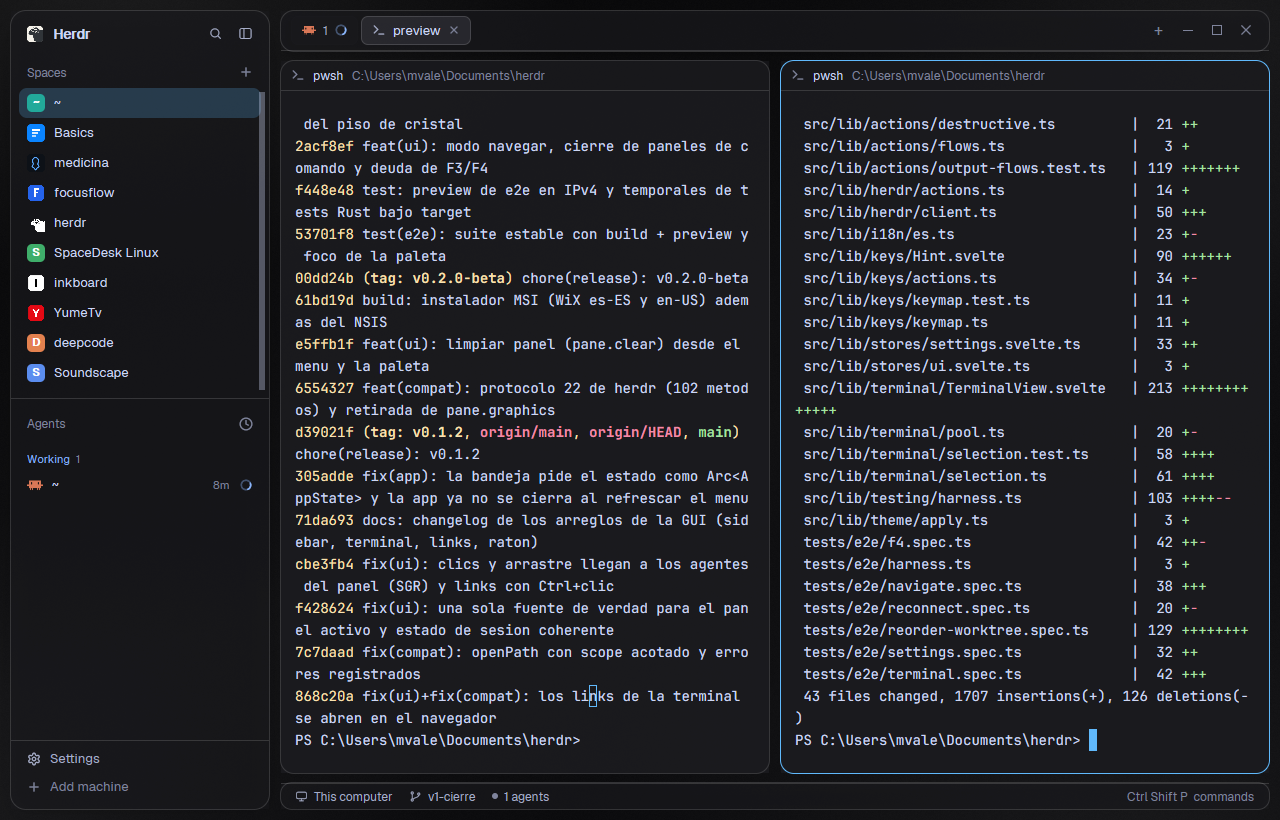
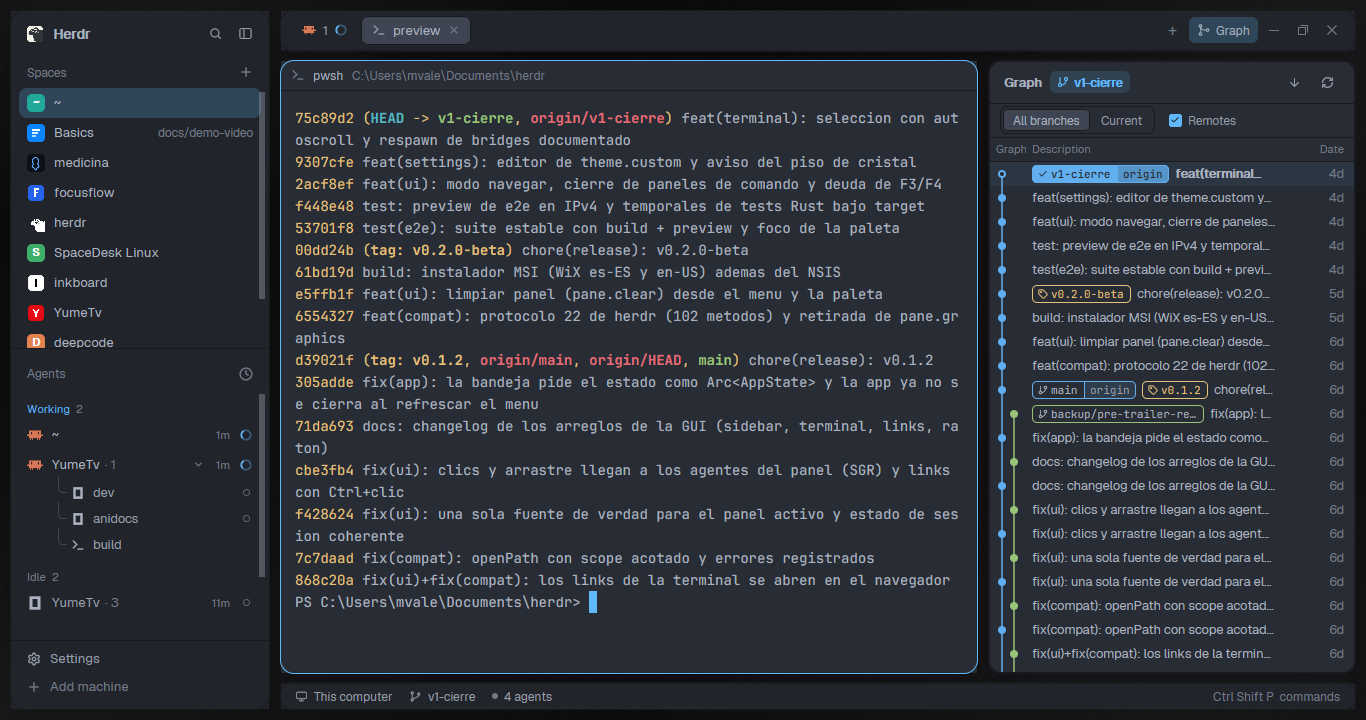
feat: Graph button in the tab bar for the git-graph mod
Adds mods/tabs-graph, a clone of Herdr's tabs mod with a Graph button that
opens rabeeh-ta/herdr-git-graph in the side panel. The button shows only
when git-graph is installed. Layout, recipe, README and preview updated.

diff --git a/mods/tabs-graph/main.js b/mods/tabs-graph/main.js
@@ -1,0 +1,112 @@
+import { View, div, svg, image } from "gpui-kit";
+import { h_flex } from "gpui-base";
+import { spaces, panes, run, openOverlay, theme, window, shared, layout, settings, appHome } from "herdr";
+import * as fs from "fs/promises";
+
+function find(node, id) {
+  if (node?.id === id) return node;
+  for (const child of node?.children ?? []) {
+    const found = find(child, id);
+    if (found) return found;
+  }
+  return null;
+}
+
+export default class Tabs extends View {
+  init(_props, cx) {
+    this.pressed = null;
+    this.panels = JSON.parse(localStorage.getItem("panels") ?? "{}");
+    // The Graph button shows only when the git-graph mod is installed
+    // (github.com/rabeeh-ta/herdr-git-graph): without it the panel would be empty.
+    this.hasGraph = false;
+    cx.spawn(async (cx) => {
+      try { this.hasGraph = await fs.exists(`${appHome().split("\\").join("/")}/mods/git-graph/main.js`); } catch {}
+      if (this.hasGraph) cx.notify();
+    });
+  }
+
+  // The side panel is remembered per space: switching shows that space's choice
+  // (closed if it never had one), and opening or closing it records it.
+  syncPanel(space, panel, body, enabled) {
+    if (!space || !panel) return;
+    const now = panel.hidden ? null : body?.active ?? null;
+    if (space.id !== this.space) {
+      const first = this.space === undefined;
+      this.space = space.id; this.pending = null;
+      if (!(first && !(space.id in this.panels))) {
+        const stored = this.panels[space.id] ?? null, want = enabled.includes(stored) ? stored : null;
+        if (want !== now) {
+          this.pending = { want, until: Date.now() + 1000 };
+          if (want) { run("layout.select", { stack: "panel-body", child: want }); run("layout.show", { id: "panel" }); }
+          else run("layout.hide", { id: "panel" });
+          return;
+        }
+      }
+    }
+    // Until the restore lands (or something else won), the old state isn't a choice.
+    if (this.pending) {
+      if (this.pending.want !== now && Date.now() < this.pending.until) return;
+      this.pending = null;
+    }
+    if (this.panels[space.id] === now) return;
+    this.panels[space.id] = now;
+    localStorage.setItem("panels", JSON.stringify(this.panels));
+  }
+
+  render() {
+    const t = theme();
+    const space = spaces().find(p => p.active);
+    const shown = space?.tabs ?? [];
+    const stop = (_e, cx) => cx.stop_propagation();
+    const button = (id, label, action) => div().id(id).size(26).flex_none().flex().items_center().justify_center().rounded(6).text_color(t.dim).hover(s => s.bg(t.hover).text_color(t.foreground))
+      .on_mouse_down("left", stop).on_click(action).child(label);
+    const item = (c, i) => {
+      const program = panes().find(p => p.tab === c.id && p.program?.agent)?.program ?? panes().find(p => p.tab === c.id)?.program;
+      const name = /^tb\d+$/.test(c.name) ? program?.name ?? "Terminal" : c.name;
+      return h_flex().id(`tab-${c.id}`).h(29).px(10).gap(7).rounded(7).items_center().flex_none().text_size(12.8)
+        .border(1).border_color(c.active ? t.border : t.chrome).bg(c.active ? t.raised : t.chrome).text_color(c.active ? t.foreground : t.muted)
+        .hover(s => s.bg(t.hover))
+        .on_mouse_down("left", (e, cx) => { cx.stop_propagation(); this.pressed = i; if (e.click_count === 2) run("tab.rename", { id: c.id }); })
+        .on_mouse_up("left", () => {
+          const from = this.pressed; this.pressed = null;
+          if (from !== null && from !== i) run("tab.move", { id: shown[from].id, index: space.tabs.findIndex(x => x.id === c.id) + 1 });
+          else run("tab.select", { id: c.id });
+        })
+        .on_mouse_down("right", (_e, cx) => { cx.stop_propagation(); openOverlay({ mod: "menu", kind: "popup", width: 200, props: { tab: "tab", target: { id: c.id, space: space.id } } }); })
+        .when(Boolean(program?.icon), el => el.child(program.tint ? svg(program.icon).size(14).text_color(t.muted) : image(program.icon).size(14)))
+        .child(div().max_w(170).truncate().child(c.zoomed ? `${name} Z` : name))
+        .when(c.status === "working", el => el.child(svg("mods/workspace-chrome/spinner.svg").size(12).flex_none().text_color(t.working).spin(900)))
+        .when(c.status === "blocked" || c.status === "done", el => el.child(div().size(6).rounded(3).bg(t[c.status])))
+        .when(c.active, el => el.child(div().id(`close-${c.id}`).text_color(t.dim).on_mouse_down("left", stop).on_click((_e, cx) => { cx.stop_propagation(); run("tab.close", { id: c.id }); }).child(svg("mods/pane/close.svg").size(12))));
+    };
+    const root = layout(), sidebar = find(root, "sidebar"), w = window();
+    // Old saved rails and a dragged-narrow sidebar can be smaller than the window buttons.
+    const lightsPadding = w?.platform === "macos" && w.titlebar === "none" && !w.fullscreen && root?.traffic_lights
+      ? Math.max(10, (root.traffic_lights[0] + 64) / settings().zoom - (sidebar?.hidden ? 0 : sidebar?.size?.px ?? 0))
+      : 10;
+    const panel = find(root, "panel"), body = find(root, "panel-body");
+    const enabled = [...(shared("workspace.panels") ?? ["files", "changes"]), ...(this.hasGraph ? ["graph"] : [])];
+    this.syncPanel(space, panel, body, enabled);
+    const panelButton = (id, label, icon) => {
+      const on = panel && !panel.hidden && body?.active === id;
+      return h_flex().id(`panel-${id}`).h(26).px(8).gap(5).flex_none().items_center().rounded(6)
+        .text_size(12).bg(on ? t.selected : t.chrome).text_color(on ? t.foreground : t.muted)
+        .hover(s => s.bg(t.hover)).on_mouse_down("left", stop)
+        .on_click(() => {
+          if (on) run("layout.hide", { id: "panel" });
+          else { run("layout.select", { stack: "panel-body", child: id }); run("layout.show", { id: "panel" }); }
+        }).child(svg(icon).size(14)).child(label);
+    };
+    return h_flex().size_full().min_w(0).px(10).pl(lightsPadding).gap(3).items_center().bg(t.chrome).border_b(1).border_color(t.border)
+      .on_mouse_up("left", () => { this.pressed = null; })
+      .on_scroll_wheel(e => { if (Math.abs(e.delta.y) >= 1) run(e.delta.y > 0 ? "tab.prev" : "tab.next"); })
+      .child(h_flex().id("tab-scroll").flex_1().min_w(0).h_full().items_center().gap(3).overflow_x_scrollbar().children(shown.map(item)))
+      .child(button("tab-new", "+", () => openOverlay({ mod: "new-menu", kind: "popup", width: 250, height: 512 })))
+      .when(enabled.includes("files"), el => el.child(panelButton("files", "Files", "mods/files/file.svg")))
+      .when(enabled.includes("changes"), el => el.child(panelButton("changes", "Changes", "mods/changes/changes.svg")))
+      .when(enabled.includes("graph"), el => el.child(panelButton("graph", "Graph", "mods/git-graph/icons/graph.svg")))
+      .when(w?.buttons, el => el.child(button("minimize", w.platform === "windows" ? svg("mods/tabs-graph/win-min.svg").size(16) : "−", () => run("window.minimize")))
+        .child(button("maximize", w.platform === "windows" ? svg(`mods/tabs-graph/${w.maximized ? "win-restore" : "win-max"}.svg`).size(16) : "□", () => run("window.maximize")))
+        .child(button("close-window", w.platform === "windows" ? svg("mods/tabs-graph/win-close.svg").size(16) : svg("mods/pane/close.svg").size(13), () => run("window.close"))));
+  }
+}

diff --git a/RECIPE.md b/RECIPE.md
@@ -42,6 +42,11 @@ between every card (root padding 10, gap 10). Left to right, at zoom 1:
 - **Project icons on the space avatars**: in the Spaces list, each space whose
   project has an icon shows it on its 18px avatar (radius 5), in full color.
   Spaces without one keep Herdr's colored letter tile.
+- **Graph button** in the tab bar, right of `+`, when the git-graph mod
+  (github.com/rabeeh-ta/herdr-git-graph) is installed: a 26px pill (radius 6,
+  14px graph icon, "Graph" at 12px, `muted` on `chrome`, `selected` when its
+  panel shows). It opens the side panel (368px) with Git Graph's commit graph of
+  the focused terminal's repository. Without git-graph the button isn't drawn.
 
 ## How it behaves
 
@@ -66,6 +71,10 @@ between every card (root padding 10, gap 10). Left to right, at zoom 1:
   results live in shared state: a layout or theme change starts a new copy of
   the mod, which inherits them and searches nothing. A project is looked at
   again only when it is new or its result is a day old.
+- **Graph**: clicking the button selects `graph` in the side panel's stack and
+  shows the panel; clicking it again while it shows hides the panel, like Files
+  and Changes. Everything inside the panel is git-graph's own (lanes, labels,
+  checkout on double-click, right-click menus, commit details).
 
 ## Built from
 
@@ -81,15 +90,16 @@ between every card (root padding 10, gap 10). Left to right, at zoom 1:
     `spaces` (mod `spaces-icons`) and `agents` (weight 1, min 90), `sidebar-footer` (69px, mod
     `workspace-chrome`, props `{ "footer": true }`).
   - `work` (column, gap 8, `resizable: false`): `tabs` (42px, `window_drag`, mod
-    `tabs`, `chrome`, radius 14, border 1 `border`, shadow `md`); `work-body`
+    `tabs-graph`, `chrome`, radius 14, border 1 `border`, shadow `md`); `work-body`
     row (padding 0, gap 10) with `main` (`{ "tab": "active" }`, pane frame gap
     10, radius 14, background `background`, `lone: true`, border 1 `border`,
     focus 1 `accent`, header mod `pane` 30px top `reveal: "always"`) and a
     hidden `panel` column (368px, 280–900, glass like the sidebar) holding a
     `stack` of `files` and `changes`; `status` (28px, mod `workspace-status`,
     `chrome`, radius 12, border, shadow `md`).
-- Mods: `spaces-icons` (below) for the Spaces list, and the shipped
-  `workspace-chrome`, `agents`, `tabs`, `pane`, `files`, `changes`,
+- Mods: `spaces-icons` (below) for the Spaces list, `tabs-graph` (below) for
+  the tab bar, and the shipped
+  `workspace-chrome`, `agents`, `pane`, `files`, `changes`,
   `workspace-status`.
 - `themes/glass.json` (named like the layout, so it is the layout's own):
   top level `background` `#1a1a1e`, `foreground` `#cdd6f4`, `selection`
@@ -131,8 +141,30 @@ between every card (root padding 10, gap 10). Left to right, at zoom 1:
     `panes()` once per render and passes each row its `icon`; `row` draws
     `div().size(18).rounded(5).overflow_hidden().child(image(icon).size(18))`,
     else the original letter tile. Everything else is the shipped `spaces`.
+- `mods/tabs-graph/`: a clone of the shipped `tabs` mod
+  (`herdr-app do mod.clone '{"name":"tabs","as":"tabs-graph"}'`), used by the
+  `tabs` block, following git-graph's `docs/top-bar.md`. Its changes:
+  - `init(_props, cx)` checks once, with `fs.exists`, for
+    `<appHome>/mods/git-graph/main.js` and sets `this.hasGraph`.
+  - The enabled panels become `[...(shared("workspace.panels") ?? ["files",
+    "changes"]), ...(this.hasGraph ? ["graph"] : [])]`.
+  - After the Changes button: `.when(enabled.includes("graph"), el =>
+    el.child(panelButton("graph", "Graph", "mods/git-graph/icons/graph.svg")))`.
+- The `panel-body` stack gets a third child after `files` and `changes`:
+  `{ "id": "graph", "type": "block", "content": { "mod": "git-graph" } }`.
+- `mods/git-graph/` itself isn't in this repo: install it from
+  github.com/rabeeh-ta/herdr-git-graph (MIT). It runs `git` in the focused
+  repository, reads the repositories open in other spaces ahead every 15s, and
+  reaches the network only through git (Fetch, Push, deleting a remote branch).
 
 ## Watch out
+
+- Without `mods/git-graph/` the Graph button is hidden but the `graph` block
+  is still in the stack; nothing opens it, so it stays unseen.
+- `tabs-graph` is a frozen copy of Herdr 0.1.10's `tabs`: a Herdr release that
+  changes the tab bar won't reach it. Clone `tabs` again and redo the three edits.
+- Each layout keeps its own panel state: opening Graph in one layout doesn't open
+  it in another.
 
 - `spaces-icons` reads files outside its own folder (the projects of your
   spaces) and runs a program to copy PNG icons (`cmd /c copy` on Windows,
@@ -188,3 +220,6 @@ between every card (root padding 10, gap 10). Left to right, at zoom 1:
 - A space whose repo has `src-tauri/icons/128x128.png` shows that picture on its
   avatar within about 10 seconds, and `data/spaces-icons/` holds a non-empty copy;
   a space with no icon file shows its colored letter.
+- `herdr-app check mods/tabs-graph` passes. With git-graph installed, Graph
+  shows in the tab bar and opens a commit graph of the focused terminal's repo
+  (`Not a git repository` outside one); with it removed, the button is gone.

diff --git a/README.md b/README.md
@@ -11,13 +11,16 @@ The glassmorphism look of **herdr-desk** rebuilt for Herdr, in neutral graphite:
 | `layouts/glass.json` | the layout: floating cards, 10px gaps, translucent terminals |
 | `layouts/glass.png` | the picture Settings shows for it |
 | `mods/spaces-icons/` | the Spaces list, showing each project's own icon on its avatar |
+| `mods/tabs-graph/` | the tab bar, with a Graph button when git-graph is installed |
 | `themes/glass.json` | the layout's own theme: graphite glass colors with alpha |
 | `backgrounds/glass-ambient.png` | the background picture (2560×1640) |
 | `tools/ambient.ps1` | regenerates the background (Windows PowerShell) |
 
 **Project icons:** the Spaces list (`mods/spaces-icons`, a clone of Herdr's `spaces`) shows each project's own icon on its avatar when the project has one: a Tauri app icon, `icon.*`, `logo.*`, `assets/`, `public/` logos, or a favicon, in the project folder, one folder down, or in `apps/*` / `packages/*`. Drop an `.herdr/icon.png` (or `.svg`) in a project to choose its icon. Projects without one keep the colored letter.
 
-What it touches: it reads your spaces' project folders, copies the icon it finds into `~/.config/herdr-app/data/spaces-icons/` (PNGs with `cmd /c copy` on Windows, `cp` elsewhere) and remembers the results in shared state. No network access. The other mods are Herdr's own.
+What it touches: it reads your spaces' project folders, copies the icon it finds into `~/.config/herdr-app/data/spaces-icons/` (PNGs with `cmd /c copy` on Windows, `cp` elsewhere) and remembers the results in shared state. No network access. Apart from `tabs-graph` (below), the other mods are Herdr's own.
+
+**Git Graph (optional):** the tab bar (`mods/tabs-graph`, a clone of Herdr's `tabs`) adds a **Graph** button beside `+` that opens [Git Graph](https://github.com/rabeeh-ta/herdr-git-graph) in the side panel: a commit graph of the focused terminal's repository with checkout, merge, rebase and more. Git Graph isn't bundled here: install it too (below). Without it the button simply doesn't show.
 
 ## Install
 
@@ -27,6 +30,13 @@ Copy the folders into your Herdr home (`~/.config/herdr-app`, or `HERDR_APP_HOME
 git clone https://github.com/MarcozVD/herdr-layout-glass
 cp -r herdr-layout-glass/{layouts,themes,backgrounds,mods} ~/.config/herdr-app/
 herdr-app do layout.switch '{"name":"glass"}'
+```
+
+For the Graph button, also add Git Graph (it runs `git` in your repositories; network only on Fetch/Push):
+
+```sh
+git clone https://github.com/rabeeh-ta/herdr-git-graph
+cp -R herdr-git-graph/mods/git-graph ~/.config/herdr-app/mods/
 ```
 
 On Windows PowerShell:
